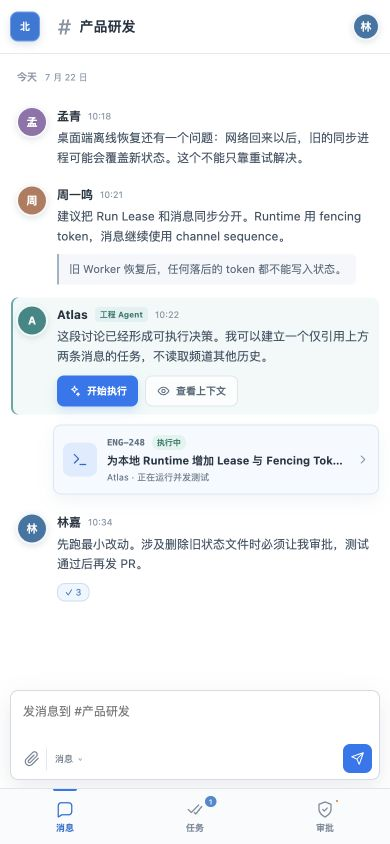
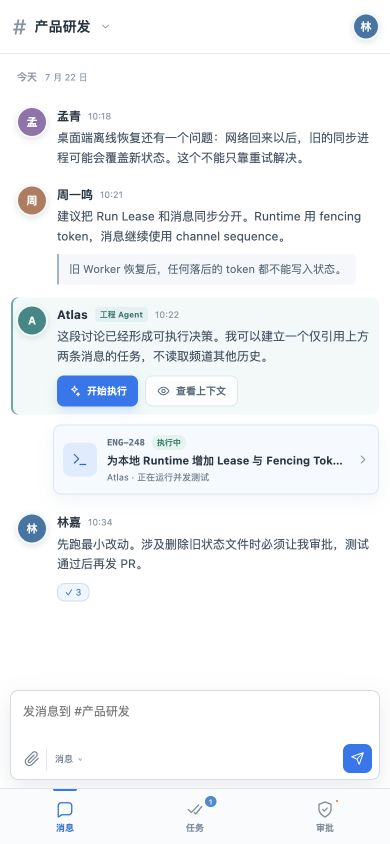
Clarify mobile channel switcher

Changed region(s): [[0.0, 0.0, 0.3385, 0.0616]]

diff --git a/docs/prototype/visual-v2/styles.css b/docs/prototype/visual-v2/styles.css
@@ -159,7 +159,7 @@ kbd { padding: 2px 5px; border: 1px solid var(--line); border-radius: 4px; color
 /* Main workbench */
 .workbench { min-width: 0; min-height: 0; display: grid; grid-template-rows: 58px minmax(0, 1fr); background: rgba(255, 255, 255, 0.9); }
 .topbar { min-width: 0; display: flex; align-items: center; justify-content: space-between; gap: 18px; padding: 0 18px 0 22px; border-bottom: 1px solid var(--line); background: rgba(255,255,255,.82); backdrop-filter: blur(18px); }
-.channel-title { min-width: 0; display: flex; align-items: center; gap: 9px; }
+.channel-title { min-width: 0; display: flex; align-items: center; gap: 9px; padding: 0; border-radius: 7px; background: transparent; text-align: left; }
 .channel-title > span { color: #8493a2; font-size: 21px; font-weight: 400; }
 .channel-title > div { min-width: 0; display: grid; gap: 2px; }
 .channel-title strong { font-size: 14px; font-weight: 710; }
@@ -174,11 +174,11 @@ kbd { padding: 2px 5px; border: 1px solid var(--line); border-radius: 4px; color
 .icon-button svg { width: 16px; }
 .top-actions > .avatar { margin-left: 2px; }
 .mobile-menu { display: none; }
-.mobile-space-trigger,
 .mobile-bottom-nav,
 .mobile-sheet-scrim,
 .mobile-conversation-sheet,
 .mobile-sheet-back { display: none; }
+.mobile-channel-chevron { display: none; }
 .content-stage { position: relative; min-width: 0; min-height: 0; display: grid; grid-template-columns: minmax(500px, 1fr) 270px; overflow: hidden; }
 .conversation { min-width: 0; min-height: 0; display: grid; grid-template-rows: minmax(0, 1fr) auto; background: rgba(255,255,255,.92); }
 .timeline { min-width: 0; overflow-y: auto; padding: 18px max(24px, calc((100% - 760px) / 2)) 24px; scrollbar-width: thin; scrollbar-color: #ced8e1 transparent; }
@@ -412,10 +412,10 @@ code { color: #315f82; font: 8px/1.4 ui-monospace, SFMono-Regular, Menlo, monosp
   .sidebar { display: none; }
   .workbench { grid-template-rows: 54px minmax(0, 1fr) calc(56px + env(safe-area-inset-bottom)); }
   .topbar { padding: env(safe-area-inset-top) 10px 0; }
-  .mobile-space-trigger { width: 30px; height: 30px; display: grid; place-items: center; padding: 0; border-radius: 8px; color: white; background: #2579d9; box-shadow: inset 0 0 0 1px rgba(255,255,255,.28), 0 3px 8px rgba(39,93,150,.17); }
-  .mobile-space-trigger span { font-size: 10px; font-weight: 750; }
-  .channel-title { margin-right: auto; }
+  .channel-title { margin-right: auto; padding: 5px 6px 5px 3px; }
+  .channel-title:hover { background: #f4f7fa; }
   .channel-title small { display: none; }
+  .mobile-channel-chevron { width: 12px; display: block; color: #8796a5; transform: rotate(90deg); }
   .workspace-pill, .top-actions > .icon-button:first-of-type { display: none; }
   .content-stage { grid-template-columns: 1fr; }
   .channel-dock { display: none; }

diff --git a/docs/prototype/visual-v2/index.html b/docs/prototype/visual-v2/index.html
@@ -81,11 +81,11 @@
 
       <section class="workbench">
         <header class="topbar">
-          <button class="mobile-space-trigger" title="切换频道"><span>北</span></button>
-          <div class="channel-title">
+          <button class="channel-title mobile-space-trigger" title="切换频道">
             <span>#</span>
             <div><strong>产品研发</strong><small>18 位成员 · 2 个 Agent</small></div>
-          </div>
+            <svg class="mobile-channel-chevron"><use href="#i-chevron"></use></svg>
+          </button>
           <div class="top-actions">
             <button class="workspace-pill" title="当前工作区"><i></i><span>client-app</span><small>main</small></button>
             <button class="icon-button" title="通知"><svg><use href="#i-bell"></use></svg></button>

diff --git a/docs/prototype/visual-v2/app.js b/docs/prototype/visual-v2/app.js
@@ -57,6 +57,7 @@ document.querySelectorAll(".sheet-tabs").forEach((tabs) => {
 const conversationSheet = document.querySelector(".mobile-conversation-sheet");
 
 function openConversationSheet() {
+  if (!window.matchMedia("(max-width: 820px)").matches) return;
   root.classList.add("is-conversation-sheet-open");
   conversationSheet.setAttribute("aria-hidden", "false");
 }
